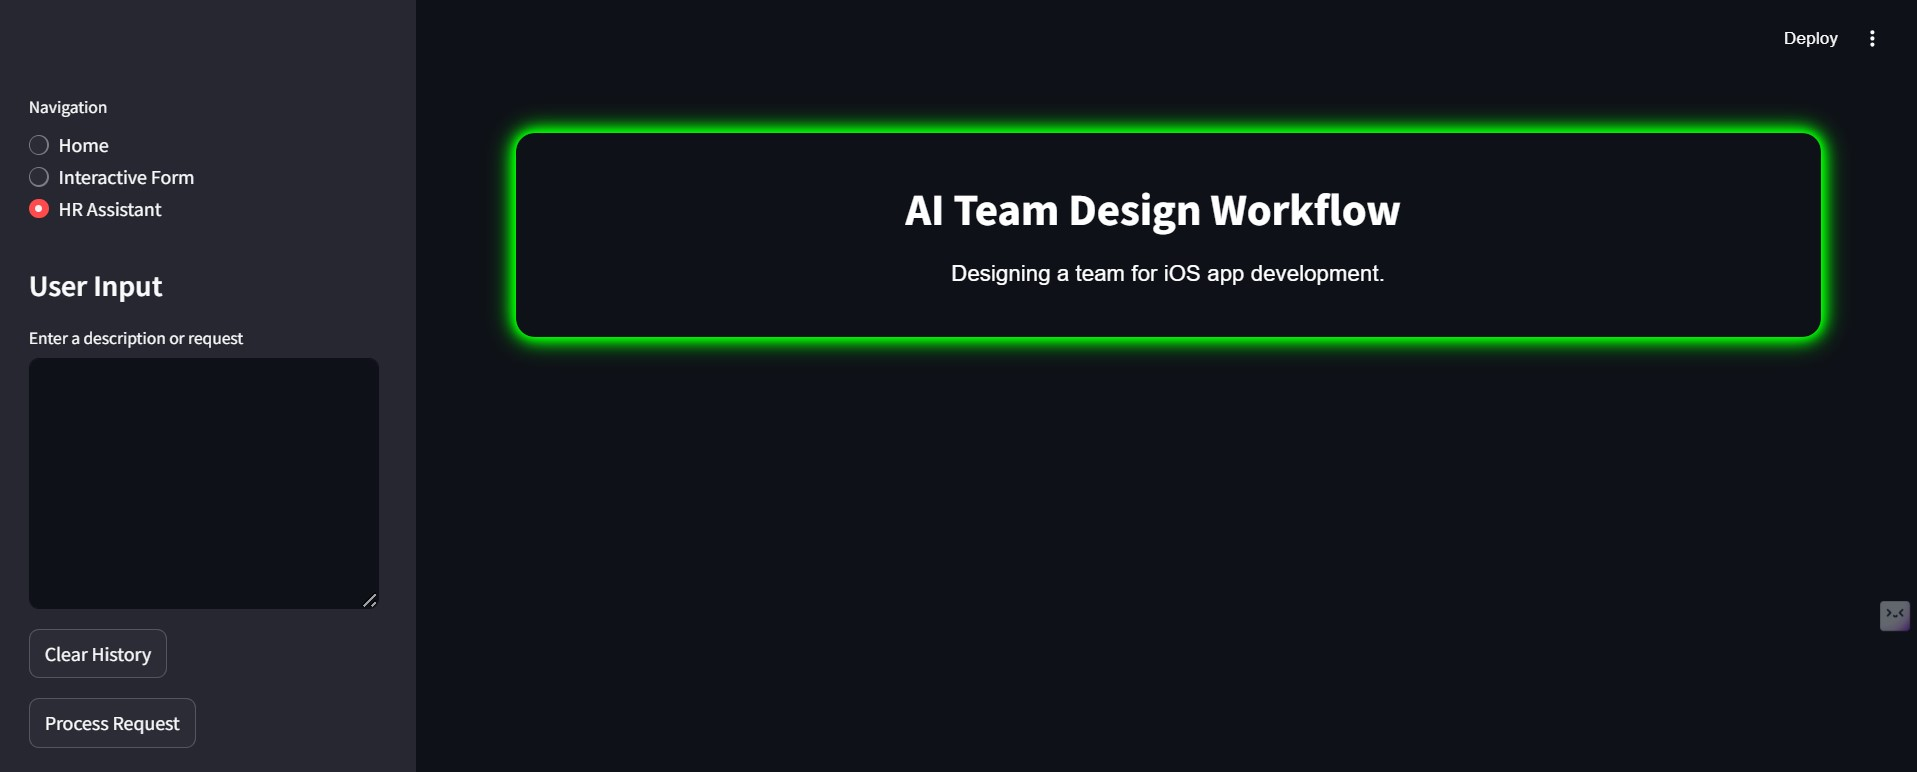
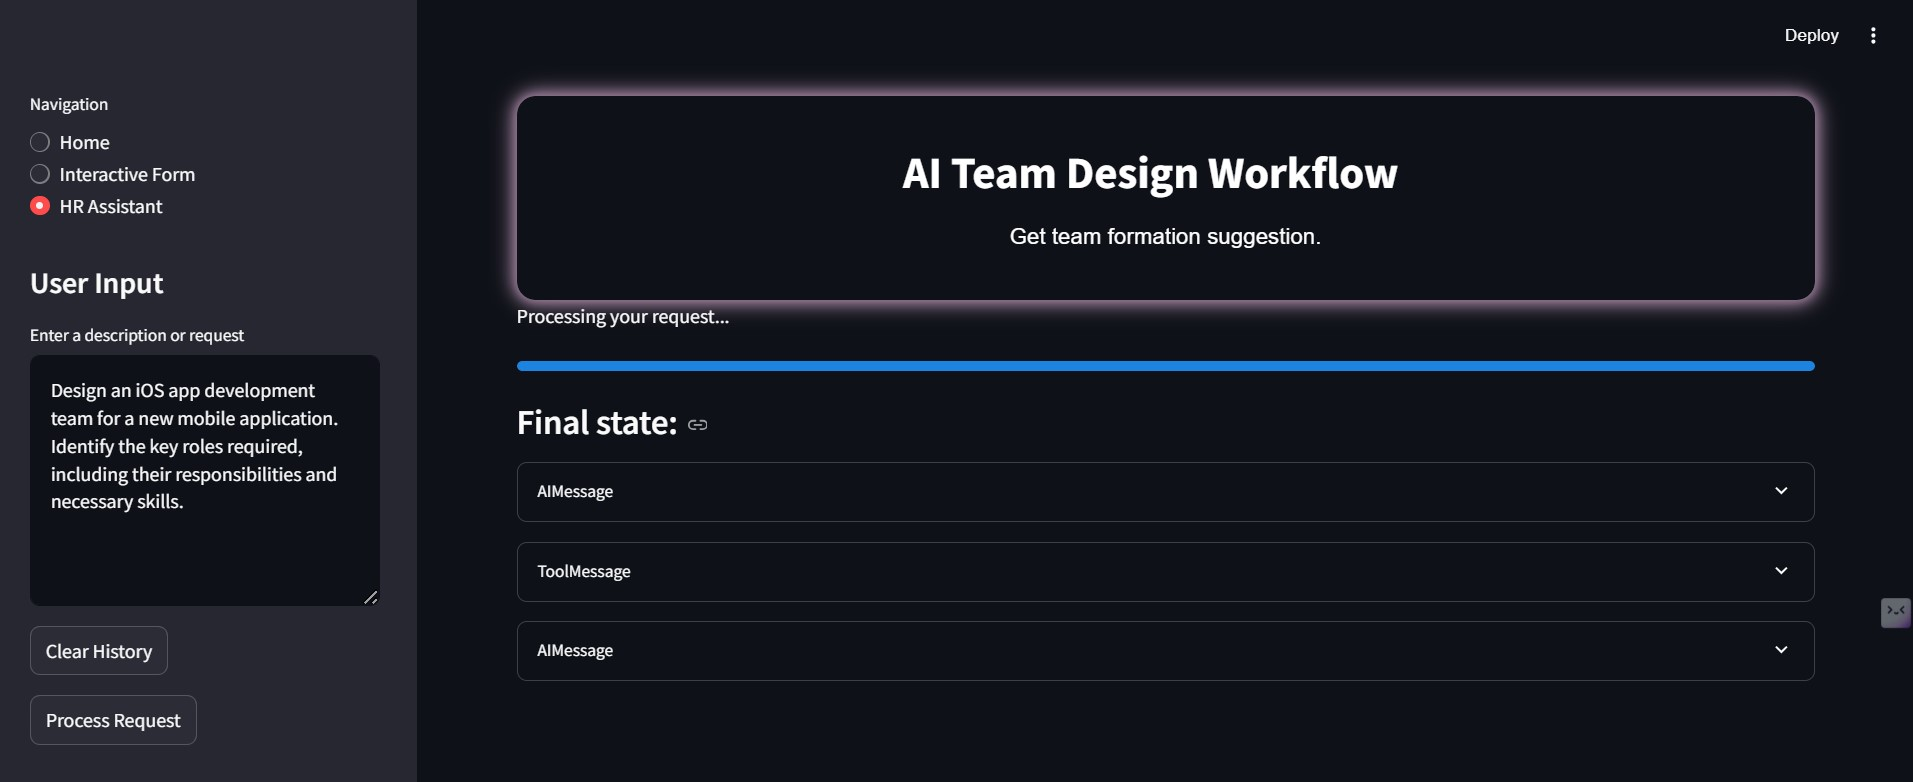
updated app

diff --git a/app.py b/app.py
@@ -5,12 +5,11 @@ import streamlit_app
 
 # Set Page Configuration
 st.set_page_config(
-    page_title="Neon Glow Professional App",
+    page_title="Hr assistant",
     page_icon="✨",
     layout="wide",
     initial_sidebar_state="expanded",
 )
-
 
 
 # Load Custom CSS
@@ -48,7 +47,7 @@ def main():
                         animation: glowing 1.5s infinite alternate;
                         font-family: 'Roboto', sans-serif;">
                 <h1 style="font-size: 36px; color: white;">AI Team Design Workflow</h1>
-                <p style="font-size: 18px; color: white;">Designing a team for iOS app development.</p>
+                <p style="font-size: 18px; color: white;">Get team formation suggestion.</p>
             </div>
             <style>
                 @keyframes glowing {
@@ -69,29 +68,33 @@ def main():
 
 def render_home_page():
     """Render the Home page."""
-    st.markdown("<h1 class='title'>Welcome to the Neon Glow App</h1>", unsafe_allow_html=True)
-    st.markdown("<p class='subtitle'>Experience professional design with a touch of neon brilliance.</p>", unsafe_allow_html=True)
+    # About the Application
+    st.markdown("""
+        ### About the Application
+        The **GenAI Agentic HR Assistant** is an advanced AI-powered tool designed to revolutionize HR management. This application provides:
+        - **Employee Record Management**: Efficiently manage employee data using MongoDB.
+        - **Intelligent Query Resolution**: Retrieve employee records or form project-specific teams using natural language queries.
+        - **Team Formation**: Automatically suggest teams tailored to project requirements.
+        - **Dynamic Workflows**: Leverage agentic workflows powered by LLMs to streamline HR operations.
+        - **Interactive User Interface**: Seamless interaction through a modern Streamlit-based design.
+
+        This application is ideal for HR professionals looking to enhance productivity and make data-driven decisions.
+    """, unsafe_allow_html=True)
 
     # Features Section
     st.markdown("### Features")
     col1, col2, col3 = st.columns(3)
 
     with col1:
-        st.markdown("<div class='feature-card'><h2>Modern Design</h2><p>Explore cutting-edge designs.</p></div>", unsafe_allow_html=True)
+        st.markdown("<div class='feature-card'><h2>AI way of team formation</h2><p>Explore employees in natural language.</p></div>", unsafe_allow_html=True)
 
     with col2:
-        st.markdown("<div class='feature-card'><h2>Professional Fonts</h2><p>Experience unmatched readability.</p></div>", unsafe_allow_html=True)
+        st.markdown("<div class='feature-card'><h2>Team formation</h2><p>Experience unmatched readability.</p></div>", unsafe_allow_html=True)
 
     with col3:
-        st.markdown("<div class='feature-card'><h2>Interactive Animations</h2><p>Engage users with smooth effects.</p></div>", unsafe_allow_html=True)
+        st.markdown("<div class='feature-card'><h2>Agentic workflow</h2><p>Engage employees what they deserve in.</p></div>", unsafe_allow_html=True)
 
-    # Call to Action Section
-    st.markdown("""
-        <div class='cta-section'>
-            <button class='neon-button' onclick='alert("Welcome to the future!")'>Get Started</button>
-        </div>
-    """, unsafe_allow_html=True)
-
+    
 # Run the application
 if __name__ == "__main__":
     main()

diff --git a/streamlit_app.py b/streamlit_app.py
@@ -83,8 +83,7 @@ def main():
             # Confirm clear history
             deleted_count = clear_history_collection()
             st.success(f"History cleared! Deleted {deleted_count} documents.")
-            # Optionally, rerun the page to refresh the state
-            # st.experimental_rerun()  # Refresh the app to remove the selectbox options
+            
 
         elif confirmation == "No, Return":
             st.info("History clearing was canceled.")
@@ -106,7 +105,7 @@ def main():
             generated_messages = generate_messages(user_input)
 
             # Display final state of messages
-            st.subheader("Final state of temp_mem:")
+            st.subheader("Final state:")
 
             # Loop through each message and display with a 3-second delay
             for idx, msg in enumerate(generated_messages):
@@ -121,7 +120,7 @@ def main():
                     color = "#98FB98"  # Light green color for ToolMessage
 
                 # Add delay to make the messages appear one by one with animation
-                time.sleep(2)  # 3-second delay
+                time.sleep(2)  # 2-second delay
 
                 # Use expandable and collapsible sections for the message content
                 with st.expander(f"{message_type}", expanded=False):

diff --git a/config.py b/config.py
@@ -1,7 +1,5 @@
 import os
 from dotenv import load_dotenv
-
-
 load_dotenv()
 
 MONGO_URI = os.getenv("MONGO_URI"),

diff --git a/README.md b/README.md
@@ -89,9 +89,9 @@ Add an image here to illustrate the agent workflow. You can include a diagram sh
 
 Include screenshots here to showcase the interface and features of the application, such as:
 - Employee data management
-![Adding employees](img/form.jpg)
+![Adding employees](img/form.png)
 - Team formation suggestions
-![Team formation](img/assistant.jpg)
+![Team formation](img/assistant.png)
 
 ---
 
